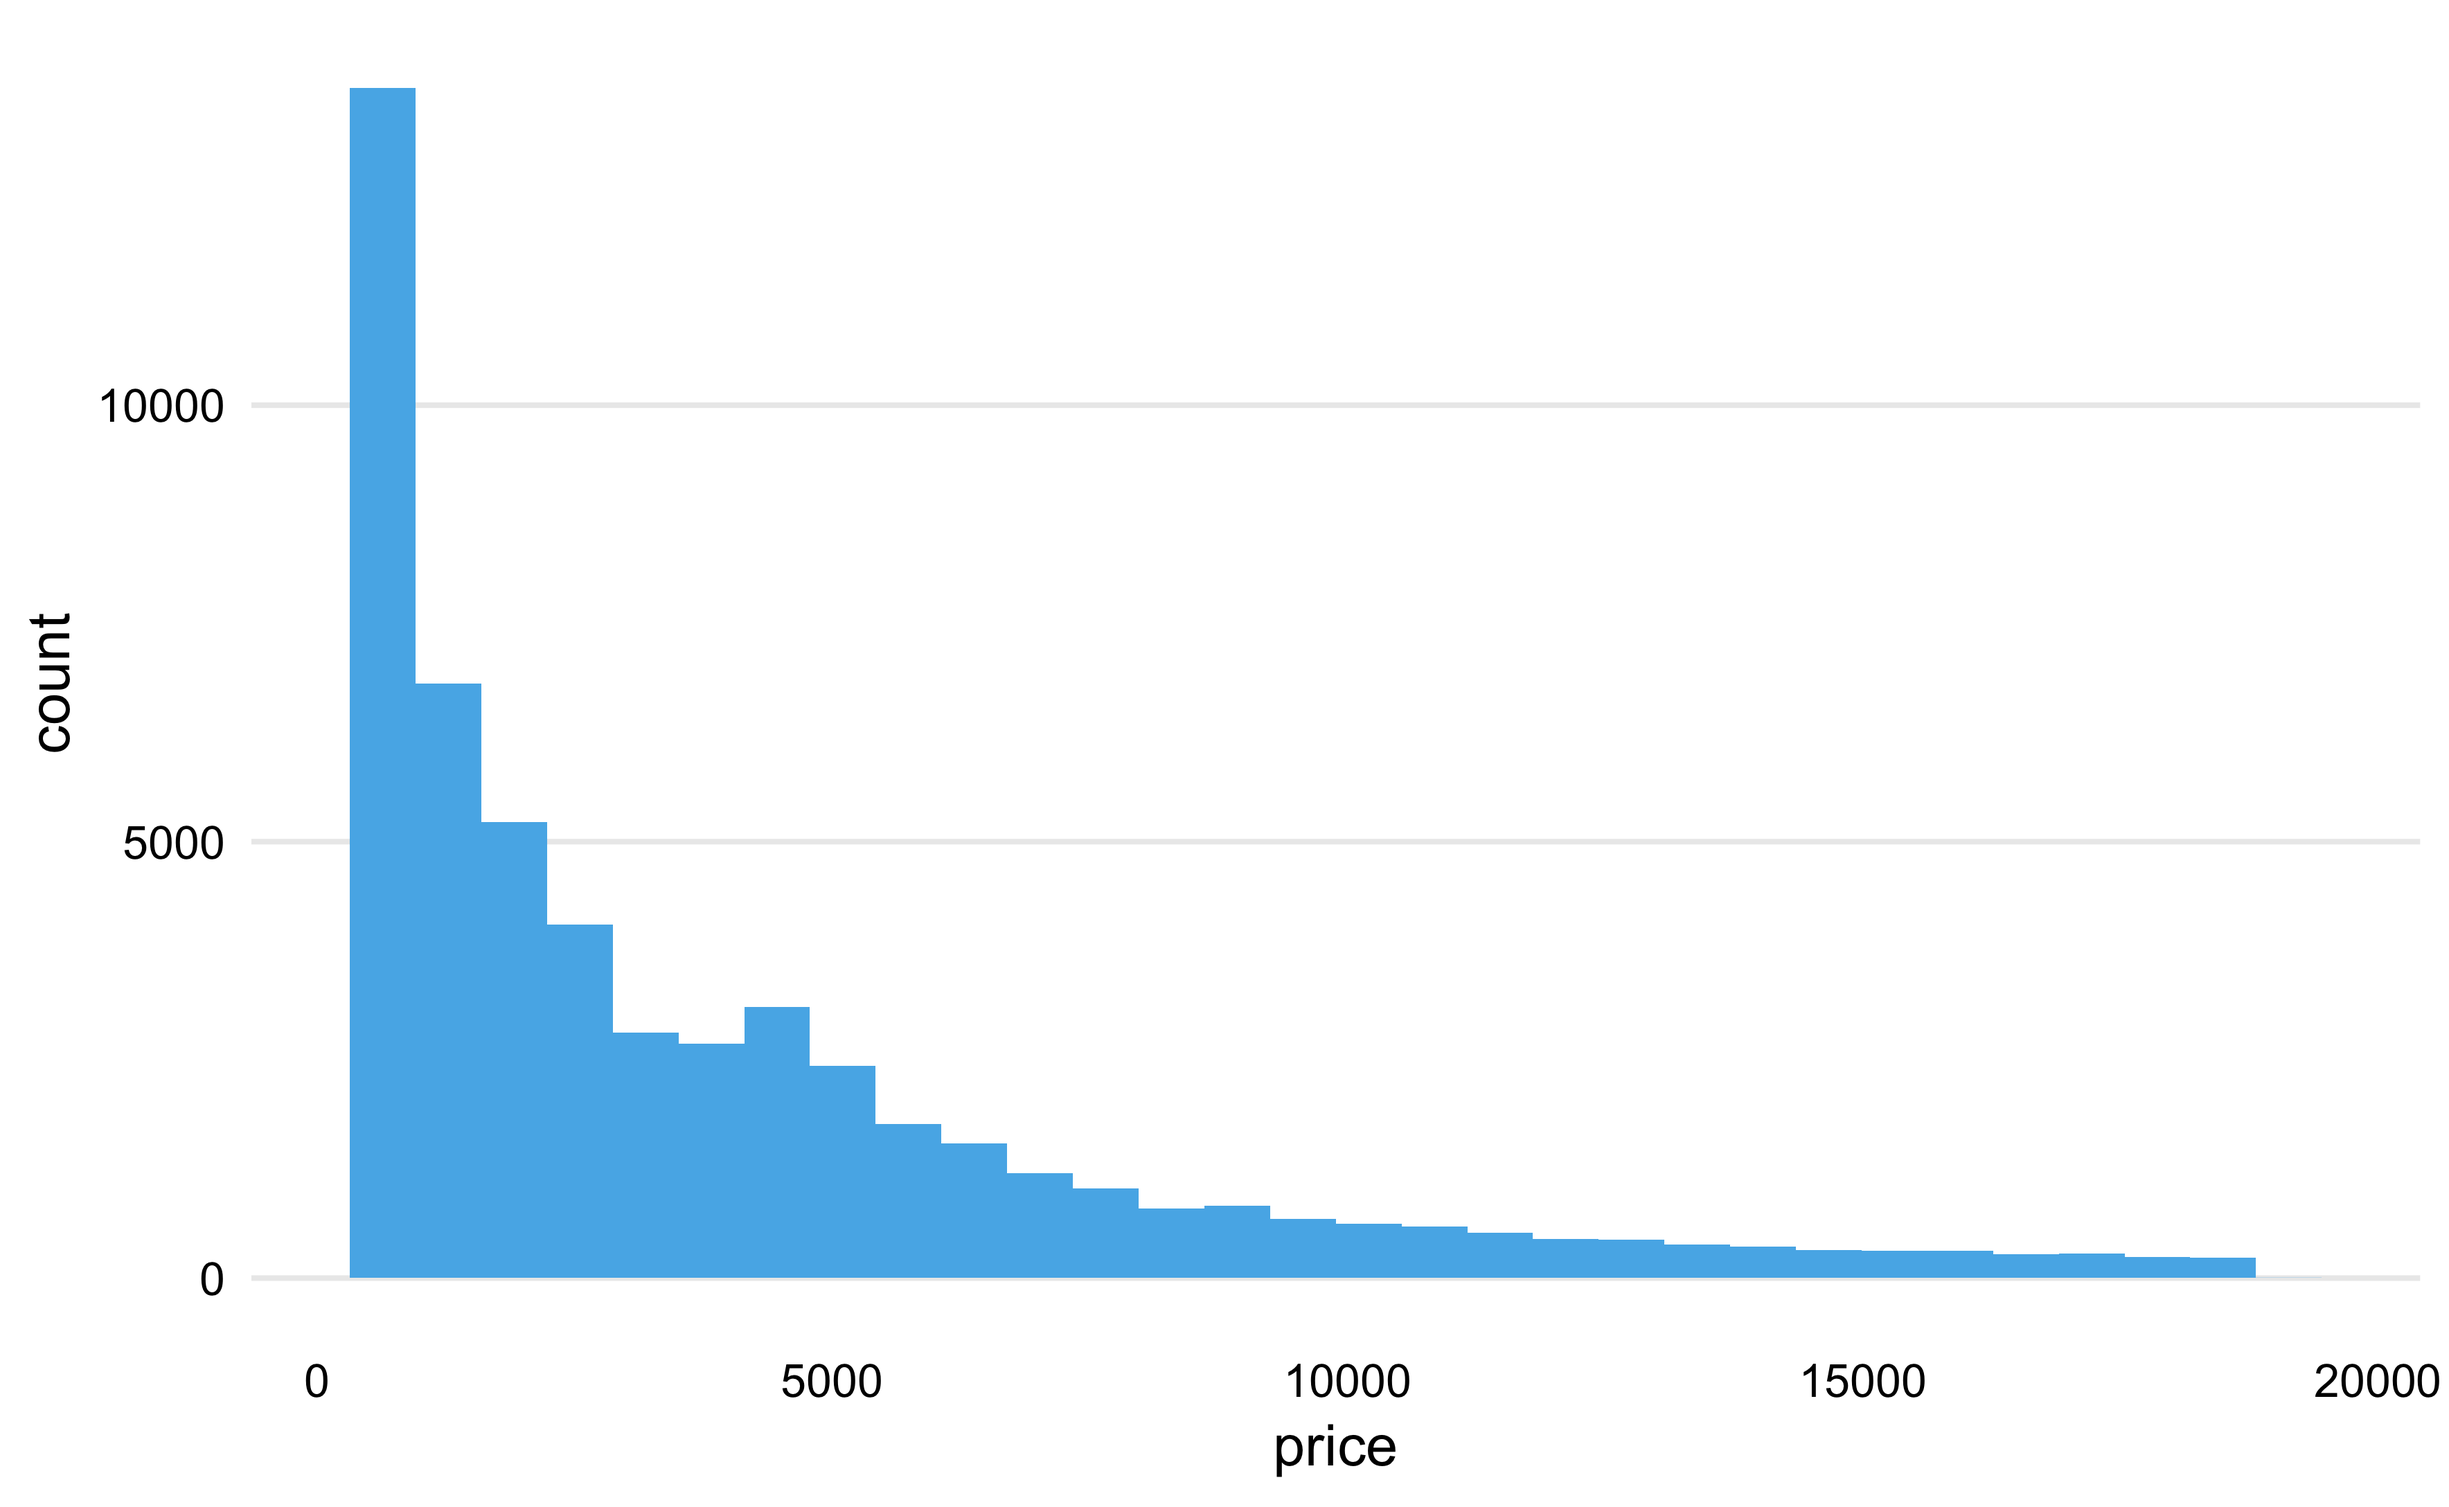
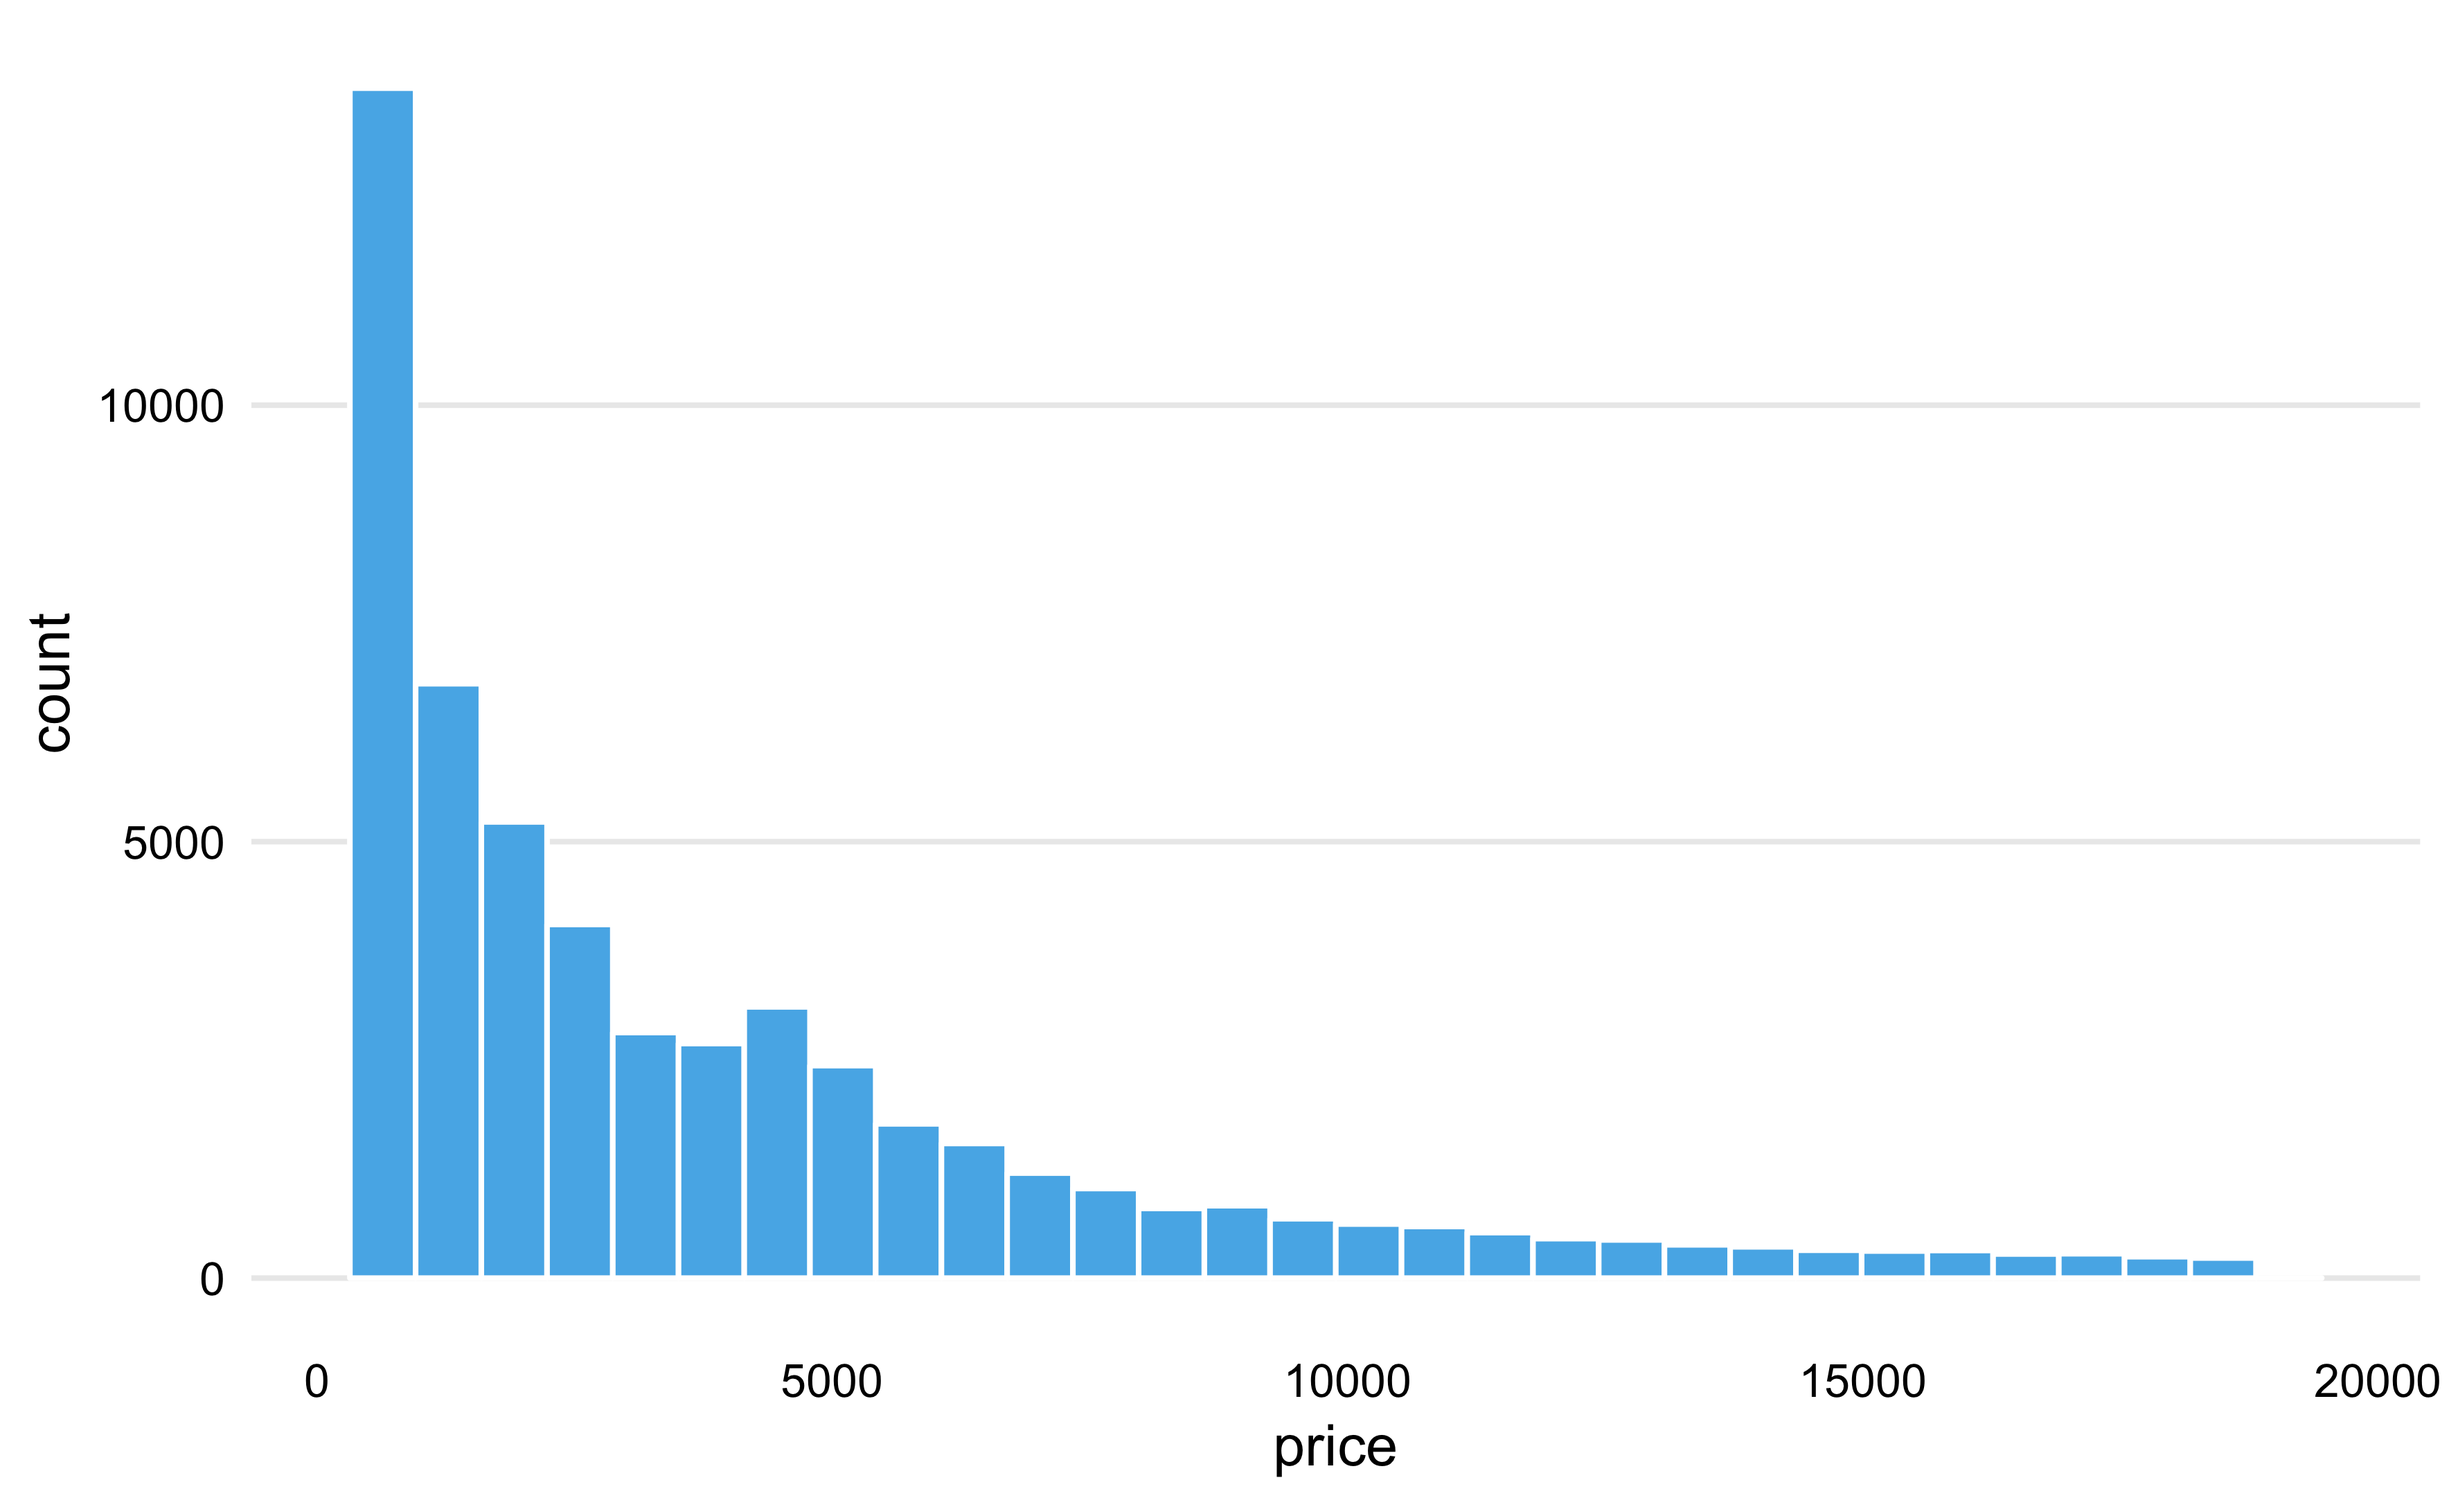
ヒストグラムの見た目を修正

Changed region(s): [[0.1555, 0.6875, 0.9333, 0.875], [0.3733, 0.75, 0.4044, 0.7812], [0.2178, 0.5938, 0.2489, 0.625]]

diff --git a/docs/posts/2019-01-01-test/index.html b/docs/posts/2019-01-01-test/index.html
@@ -1341,7 +1341,7 @@ df = diamonds #面倒なので名前をdfに
 
 df %&gt;% 
     ggplot(aes(price)) +
-    geom_histogram(fill = &quot;#56B4E9&quot;) +
+    geom_histogram(fill = &quot;#56B4E9&quot;, color = &quot;white&quot;) +
     theme_minimal2</code></pre>
 <p><img src="test_files/figure-html5/unnamed-chunk-2-1.png" width="1768" /></p>
 </div>
@@ -1350,7 +1350,7 @@ df %&gt;%
 <pre class="r"><code>
 df %&gt;% 
     ggplot(aes(log(price))) +
-    geom_histogram(fill = &quot;#56B4E9&quot;) +
+    geom_histogram(fill = &quot;#56B4E9&quot;, color = &quot;white&quot;) +
     theme_minimal2</code></pre>
 <p><img src="test_files/figure-html5/unnamed-chunk-3-1.png" width="1768" /></p>
 </div>
